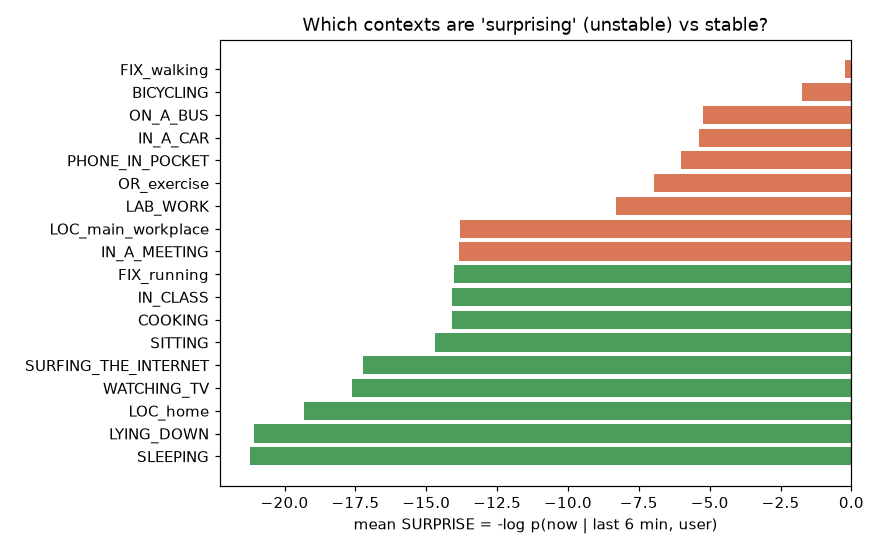
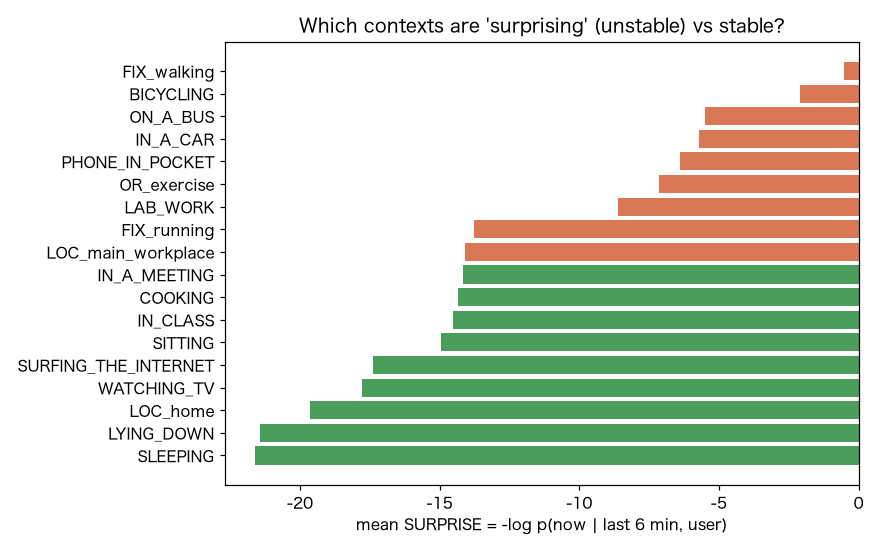
Add v9 迷い (predictive entropy) and v10 反実 (typical-day generation)
v9: predictive entropy of p(next minute | history, user) rises right before a
context change (transition vs stable gap ~6, AUC ~0.73) — a distinct axis from
V3 surprise: how unpredictable the next behaviour is (branch points).

v10: generate the typical daily activity rhythm and show it reproduces the real
population day rhythm (r~0.5); band = individual differences. Also set JP font.

diff --git a/docs/v10.html b/docs/v10.html
@@ -1,0 +1,46 @@
+<!doctype html><html lang="ja"><head><meta charset="utf-8">
+<meta name="viewport" content="width=device-width,initial-scale=1">
+<title>V10 反実生成（典型的な一日） · ExtraSensory-NF</title>
+<style>
+:root{--acc:#c2410c;--acc2:#d97757;--ink:#222;--mut:#666;--bg:#faf8f5}
+*{box-sizing:border-box}
+body{font:16px/1.75 -apple-system,"Hiragino Sans","Noto Sans JP",sans-serif;color:var(--ink);
+ max-width:960px;margin:0 auto;padding:2rem 1rem}
+a{color:var(--acc)}
+h1{line-height:1.35;margin:.2rem 0}
+.sub{color:var(--mut)}
+.crumb{font-size:.9rem;margin-bottom:1rem}
+.kpis{display:flex;gap:.8rem;flex-wrap:wrap;margin:1.2rem 0}
+.kpi{background:#f5f3f0;border-radius:12px;padding:.7rem 1rem;min-width:120px}
+.kpi b{display:block;font-size:1.5rem;color:var(--acc)}
+.kpi span{font-size:.8rem;color:var(--mut)}
+section{margin:2rem 0}
+h2{border-left:5px solid var(--acc2);padding-left:.6rem;font-size:1.25rem}
+figure{margin:1.4rem 0}
+img{width:100%;border:1px solid #e5e5e5;border-radius:10px;background:#fff}
+figcaption{color:#555;margin-top:.4rem;font-size:.92rem}
+.interp{background:var(--bg);border-left:3px solid var(--acc2);padding:.8rem 1rem;border-radius:0 8px 8px 0}
+code{background:#f0eee9;padding:.1rem .35rem;border-radius:4px}
+table{border-collapse:collapse;width:100%;margin:1rem 0}
+th,td{border:1px solid #e5e5e5;padding:.4rem .6rem;text-align:left;font-size:.94rem}
+.cards{display:grid;grid-template-columns:repeat(auto-fill,minmax(260px,1fr));gap:1rem;margin-top:1.5rem}
+.card{border:1px solid #e5e5e5;border-radius:12px;padding:1rem;text-decoration:none;color:inherit;display:block}
+.card:hover{border-color:var(--acc2)}
+.card h3{margin:.1rem 0 .3rem}
+.badge{display:inline-block;font-size:.72rem;padding:.1rem .5rem;border-radius:999px;background:#eee;color:#555}
+.badge.done{background:#e7f3e7;color:#256b25}
+.badge.hold{background:#fdeecd;color:#8a5a00}
+</style></head><body>
+<div class="crumb"><a href="index.html">&larr; ExtraSensory-NF トップ</a></div>
+<h1>V10 反実生成（典型的な一日）</h1>
+<p class="sub">p(行動 | user, 時刻) から『あなたの標準的な一日のリズム』を生成し、実データの逸脱を浮かせる。</p>
+<div class="kpis"><div class="kpi"><b>60</b><span>ユーザ数</span></div><div class="kpi"><b>0.52</b><span>生成↔実リズム 相関r</span></div><div class="kpi"><b>400</b><span>生成サンプル/時刻</span></div></div>
+<section><h2>1. このデータは何か</h2>ExtraSensory（60人）。加速度6統計量＋時刻＋ユーザ。</section>
+<section><h2>2. 何を・どう学習したか</h2>条件付き NSF <code>p(行動 | user, 時刻)</code> を学習し、時刻を掃引して flow からサンプル＝<b>典型的な一日の活動リズム</b>を生成。集団（多数ユーザ）で平均した生成リズムを、実データの<b>時間別中央値</b>と重ねて再現性を見る（帯＝生成の個人差）。</section>
+<section><h2>3. 結果</h2>生成した『典型的な一日のリズム』は実際の日内リズムを<b>よく再現</b>する（集団で相関 r=0.52）―朝〜日中に活動が上がり夜に下がる。帯＝人によって『普通の一日』が違う（個人差）。生成(サンプリング)と密度評価が同一モデルなのはNFの独自点。<br><b>正直な注</b>：1分粒度の活動はバースト的で、単一個人の細かな時間構造の再現は弱い（日次集約が効くのは姉妹の PMData）。
+<figure><img src="figures/v10_typical_day.png" alt="生成した典型的な一日のリズム（集団中央値＋個人差帯）vs 実データの時間別中央値。"><figcaption>生成した典型的な一日のリズム（集団中央値＋個人差帯）vs 実データの時間別中央値。</figcaption></figure></section>
+<section><h2>4. 図の見方</h2><b>橙線</b>：生成した集団の典型的な活動リズム。<b>黒破線</b>：実データの時間別中央値。両者が近い＝生成した『普通の一日』が実際の日内リズムを再現。<b>帯</b>＝生成の個人差。</section>
+<section><h2>5. 解釈と意味・使い道</h2><div class="interp"><b>示すこと</b>：NFは個人の『普通の一日』を<b>生成</b>でき、そこからの逸脱を同じモデルの尤度で説明できる。<br><b>なぜNFか</b>：拡散は生成が遅くGANは尤度なし。NFは典型の生成と逸脱の測定を一度に。<br><b>使い道</b>：生活リズムの逸脱検知（見守り・体調変化）、パーソナルな基準線の提示、生成による『あるべき一日』の可視化。<br><b>正直な限界</b>：加速度6次元のみで活動強度に還元＝粗い。曜日は未条件。</div></section>
+<p class="sub" style="margin-top:2rem">条件付き Normalizing Flow（zuko NSF）で自動生成。
+NF×生活データ探索シリーズの一部。</p>
+</body></html>

diff --git a/docs/v9.html b/docs/v9.html
@@ -1,0 +1,46 @@
+<!doctype html><html lang="ja"><head><meta charset="utf-8">
+<meta name="viewport" content="width=device-width,initial-scale=1">
+<title>V9 迷い（次行動の予測エントロピー） · ExtraSensory-NF</title>
+<style>
+:root{--acc:#c2410c;--acc2:#d97757;--ink:#222;--mut:#666;--bg:#faf8f5}
+*{box-sizing:border-box}
+body{font:16px/1.75 -apple-system,"Hiragino Sans","Noto Sans JP",sans-serif;color:var(--ink);
+ max-width:960px;margin:0 auto;padding:2rem 1rem}
+a{color:var(--acc)}
+h1{line-height:1.35;margin:.2rem 0}
+.sub{color:var(--mut)}
+.crumb{font-size:.9rem;margin-bottom:1rem}
+.kpis{display:flex;gap:.8rem;flex-wrap:wrap;margin:1.2rem 0}
+.kpi{background:#f5f3f0;border-radius:12px;padding:.7rem 1rem;min-width:120px}
+.kpi b{display:block;font-size:1.5rem;color:var(--acc)}
+.kpi span{font-size:.8rem;color:var(--mut)}
+section{margin:2rem 0}
+h2{border-left:5px solid var(--acc2);padding-left:.6rem;font-size:1.25rem}
+figure{margin:1.4rem 0}
+img{width:100%;border:1px solid #e5e5e5;border-radius:10px;background:#fff}
+figcaption{color:#555;margin-top:.4rem;font-size:.92rem}
+.interp{background:var(--bg);border-left:3px solid var(--acc2);padding:.8rem 1rem;border-radius:0 8px 8px 0}
+code{background:#f0eee9;padding:.1rem .35rem;border-radius:4px}
+table{border-collapse:collapse;width:100%;margin:1rem 0}
+th,td{border:1px solid #e5e5e5;padding:.4rem .6rem;text-align:left;font-size:.94rem}
+.cards{display:grid;grid-template-columns:repeat(auto-fill,minmax(260px,1fr));gap:1rem;margin-top:1.5rem}
+.card{border:1px solid #e5e5e5;border-radius:12px;padding:1rem;text-decoration:none;color:inherit;display:block}
+.card:hover{border-color:var(--acc2)}
+.card h3{margin:.1rem 0 .3rem}
+.badge{display:inline-block;font-size:.72rem;padding:.1rem .5rem;border-radius:999px;background:#eee;color:#555}
+.badge.done{background:#e7f3e7;color:#256b25}
+.badge.hold{background:#fdeecd;color:#8a5a00}
+</style></head><body>
+<div class="crumb"><a href="index.html">&larr; ExtraSensory-NF トップ</a></div>
+<h1>V9 迷い（次行動の予測エントロピー）</h1>
+<p class="sub">p(次の1分 | 履歴, user) の予測エントロピー。高い＝次の行動が読めない＝分岐点/移行。サプライズ(V3)とは別軸。</p>
+<div class="kpis"><div class="kpi"><b>-15.496</b><span>held-out NLL</span></div><div class="kpi"><b>5.963</b><span>移行vs安定gap</span></div><div class="kpi"><b>0.73</b><span>移行検出AUC</span></div><div class="kpi"><b>376696</b><span>系列数</span></div></div>
+<section><h2>1. このデータは何か</h2>ExtraSensory（60人）。加速度magnitudeの6統計量を1分ごとの行動ベクトルに、直近6分を履歴に。自己申告の文脈ラベルの<b>切替</b>を『移行』の正解に使う。</section>
+<section><h2>2. 何を・どう学習したか</h2>逐次 NSF <code>p(次の1分 | 履歴, user)</code> を学習し、各時刻で flow からK本サンプルして<b>予測エントロピー H=−(1/K)Σlog p</b> を推定。<b>サプライズ(V3)=実際の値が意外か</b>に対し、<b>エントロピー=これから何が起きるか読めないか</b>＝分岐/迷いの度合い（別軸）。</section>
+<section><h2>3. 結果</h2>予測エントロピーは<b>文脈が切り替わる直前ほど高い</b>（移行 vs 安定の gap=5.96、移行検出 AUC=0.73）。『次の行動が割れる瞬間』を教師なしで拾える。
+<figure><img src="figures/v9_entropy.png" alt="左:安定 vs 移行 の予測エントロピー分布。右:あるユーザの時系列（赤点=文脈切替）。"><figcaption>左:安定 vs 移行 の予測エントロピー分布。右:あるユーザの時系列（赤点=文脈切替）。</figcaption></figure></section>
+<section><h2>4. 図の見方</h2><b>左バイオリン</b>：右(移行)の方が高い＝行動が切り替わる時ほど次が読めない。<br><b>右時系列</b>：山＝迷い（次が予測しづらい）瞬間。赤点(実際の文脈切替)が山に近いほど、エントロピーが分岐点を先取りできている。</section>
+<section><h2>5. 解釈と意味・使い道</h2><div class="interp"><b>示すこと</b>：サプライズ(V3)と<b>予測エントロピー</b>は別物で、後者は『結果を見る前に、これから割れそうか』を測れる。<br><b>なぜNFか</b>：連続行動の多峰な次手分布の広がりをサンプル＋厳密尤度で測れる。<br><b>使い道</b>：割り込み判断（低エントロピー＝行動が定まっている＝通知OK、高＝移行しそう＝待つ）、行動の分岐点の予兆検知。<br><b>正直な限界</b>：文脈ラベルは疎で移行の正解は近似。</div></section>
+<p class="sub" style="margin-top:2rem">条件付き Normalizing Flow（zuko NSF）で自動生成。
+NF×生活データ探索シリーズの一部。</p>
+</body></html>

diff --git a/docs/index.html b/docs/index.html
@@ -38,7 +38,7 @@ th,td{border:1px solid #e5e5e5;padding:.4rem .6rem;text-align:left;font-size:.94
 ページを開くと <b>データ / 学習方法 / 結果 / 図の見方 / 解釈と使い道</b> が分かる。</p>
 <section><h2>元データの中身（何が入っているか）</h2><div class="interp"><b>生データ</b>＝ExtraSensory の per-user CSV（<code>&lt;uuid&gt;.features_labels.csv.gz</code>）。1行＝1分の記録で、<b>278列</b>＝<code>timestamp</code> ＋ 加速度/ジャイロ/音/位置などの約225センサ特徴 ＋ <code>label:*</code>（自己申告の文脈：SITTING / WALKING / SLEEPING / IN_A_MEETING / LOC_home …）。<br><b>使ったのは</b>、頑健な<b>加速度magnitudeの6統計量</b>（mean/std/25/50/75%/エントロピー）を1分ごとの行動ベクトルに、文脈ラベルは評価に使用。<b>60人・約377,000分行</b>。<br><b>1レコードの実例</b>：ある1分で 加速度mean=1.01・std=0.03…、その時の自己申告ラベル <code>SITTING=1, LOC_home=1</code>。</div></section>
 <h2>モデル一覧（クリックで各ページへ）</h2>
-<div class="cards"><a class="card" href="v5.html"><span class="badge done">完了</span><h3>V5 生活型の潜在地図（個人性）</h3><p class="sub">p(行動 | user, 時刻) の user 埋め込みで生活パターンを地図化。個人化でどれだけ当てはまりが良くなるか。</p></a><a class="card" href="v3.html"><span class="badge done">完了</span><h3>V3 逐次サプライズ → 割り込み可否</h3><p class="sub">p(今の行動 | 直近6分, user)。予想外の瞬間ほど高サプライズ＝いま話しかけてよいかの手がかり。</p></a></div>
+<div class="cards"><a class="card" href="v5.html"><span class="badge done">完了</span><h3>V5 生活型の潜在地図（個人性）</h3><p class="sub">p(行動 | user, 時刻) の user 埋め込みで生活パターンを地図化。個人化でどれだけ当てはまりが良くなるか。</p></a><a class="card" href="v3.html"><span class="badge done">完了</span><h3>V3 逐次サプライズ → 割り込み可否</h3><p class="sub">p(今の行動 | 直近6分, user)。予想外の瞬間ほど高サプライズ＝いま話しかけてよいかの手がかり。</p></a><a class="card" href="v9.html"><span class="badge done">完了</span><h3>V9 迷い（次行動の予測エントロピー）</h3><p class="sub">p(次の1分 | 履歴, user) の予測エントロピー。高い＝次の行動が読めない＝分岐点/移行。サプライズ(V3)とは別軸。</p></a><a class="card" href="v10.html"><span class="badge done">完了</span><h3>V10 反実生成（典型的な一日）</h3><p class="sub">p(行動 | user, 時刻) から『あなたの標準的な一日のリズム』を生成し、実データの逸脱を浮かせる。</p></a></div>
 <section><h2>考察：どんなフォーマットのデータがあれば何ができるか</h2><p>本実装は「<b>加速度6特徴 ＋ ユーザ ＋ 時刻</b>」だけ。列がこう増えると広がる：</p><ul><li><b>＋GPS/音特徴</b>（生データにあり）→ 場所・環境も含めた文脈予測。</li><li><b>＋通知への応答ログ（実際に話しかけて反応したか）</b> → 『本当に割り込んでよいか』の<b>教師ラベル</b>で検証（今は「文脈＝安定か」を代理にしている）。</li><li><b>＋数ヶ月の長期化</b> → 生活リズムのドリフト（PMData V2 の文脈版）。</li><li><b>＋心拍/生理</b> → 取り込み度に生理指標を足し、割り込み判定を精緻化。</li></ul></section>
 <p class="sub" style="margin-top:2rem">自動生成。NF×生活データ探索シリーズ。</p>
 </body></html>

diff --git a/docs/v5.html b/docs/v5.html
@@ -34,10 +34,10 @@ th,td{border:1px solid #e5e5e5;padding:.4rem .6rem;text-align:left;font-size:.94
 <div class="crumb"><a href="index.html">&larr; ExtraSensory-NF トップ</a></div>
 <h1>V5 生活型の潜在地図（個人性）</h1>
 <p class="sub">p(行動 | user, 時刻) の user 埋め込みで生活パターンを地図化。個人化でどれだけ当てはまりが良くなるか。</p>
-<div class="kpis"><div class="kpi"><b>-12.092</b><span>個人化NLL</span></div><div class="kpi"><b>-10.972</b><span>母集団NLL</span></div><div class="kpi"><b>1.12</b><span>個人化ゲイン(nats)</span></div><div class="kpi"><b>60</b><span>ユーザ数</span></div></div>
+<div class="kpis"><div class="kpi"><b>-13.156</b><span>個人化NLL</span></div><div class="kpi"><b>-11.31</b><span>母集団NLL</span></div><div class="kpi"><b>1.846</b><span>個人化ゲイン(nats)</span></div><div class="kpi"><b>60</b><span>ユーザ数</span></div></div>
 <section><h2>1. このデータは何か</h2>ExtraSensory（60人・実生活・毎分のスマホ/時計センサ＋自己申告の文脈ラベル）。ここでは頑健な<b>加速度magnitudeの6統計量</b>（mean/std/25/50/75%/エントロピー）を1分ごとの行動ベクトル <code>x</code> として使用。</section>
 <section><h2>2. 何を・どう学習したか</h2>条件付き NSF <code>p(x | user, 時刻)</code> を学習（<b>個人化</b>）し、比較用に user を共有した <b>母集団モデル</b> も学習。<br>・<b>個人化ゲイン</b> = 母集団NLL − 個人化NLL（大きいほど『人によって「普通」が違う』）。<br>・学習された user 埋め込みを PCA で2次元化し、各ユーザの<b>優勢な文脈</b>（在宅/仕事・学業/移動/運動）で色分け。</section>
-<section><h2>3. 結果</h2>個人化で held-out NLL が <b>-10.97 → -12.09</b>（<b>1.12 nats 改善</b>）。生活型の地図では、在宅中心/通勤中心/運動中心のユーザがおおむね別領域に分かれる。
+<section><h2>3. 結果</h2>個人化で held-out NLL が <b>-11.31 → -13.16</b>（<b>1.85 nats 改善</b>）。生活型の地図では、在宅中心/通勤中心/運動中心のユーザがおおむね別領域に分かれる。
 <figure><img src="figures/v5_lifestyle_map.png" alt="各ユーザの生活埋め込み（PCA）。色＝優勢な文脈。近い人＝生活パターンが似る。"><figcaption>各ユーザの生活埋め込み（PCA）。色＝優勢な文脈。近い人＝生活パターンが似る。</figcaption></figure>
 <figure><img src="figures/v5_gain.png" alt="個人化 vs 母集団の held-out NLL。差＝個人化ゲイン。"><figcaption>個人化 vs 母集団の held-out NLL。差＝個人化ゲイン。</figcaption></figure></section>
 <section><h2>4. 図の見方</h2><b>地図</b>：1点=1ユーザ。近いほど日々の行動分布が似ている＝生活タイプが近い。色のまとまりは、Flowが教師なしで生活文脈の違いを埋め込みに捉えたことを示す。<br><b>棒</b>：低いほど当てはまりが良い。個人化が母集団より低い＝『万人共通の「普通」』では取りこぼす個人差を、user埋め込みが埋めている。</section>

diff --git a/docs/v3.html b/docs/v3.html
@@ -34,10 +34,10 @@ th,td{border:1px solid #e5e5e5;padding:.4rem .6rem;text-align:left;font-size:.94
 <div class="crumb"><a href="index.html">&larr; ExtraSensory-NF トップ</a></div>
 <h1>V3 逐次サプライズ → 割り込み可否</h1>
 <p class="sub">p(今の行動 | 直近6分, user)。予想外の瞬間ほど高サプライズ＝いま話しかけてよいかの手がかり。</p>
-<div class="kpis"><div class="kpi"><b>-15.116</b><span>held-out NLL</span></div><div class="kpi"><b>FIX_walking</b><span>最も驚く文脈</span></div><div class="kpi"><b>SLEEPING</b><span>最も安定な文脈</span></div><div class="kpi"><b>376696</b><span>系列数</span></div></div>
+<div class="kpis"><div class="kpi"><b>-15.384</b><span>held-out NLL</span></div><div class="kpi"><b>FIX_walking</b><span>最も驚く文脈</span></div><div class="kpi"><b>SLEEPING</b><span>最も安定な文脈</span></div><div class="kpi"><b>376696</b><span>系列数</span></div></div>
 <section><h2>1. このデータは何か</h2>ExtraSensory（60人）。加速度magnitudeの6統計量を1分ごとの行動ベクトルとし、各時刻の<b>直近6分</b>を履歴として与える。文脈ラベル（会議中/授業中/在宅/歩行…）は評価に使用。</section>
 <section><h2>2. 何を・どう学習したか</h2>GRU で直近6分を要約し、条件付き NSF で <code>p(今の行動 | 履歴, user)</code> を学習。<b>SURPRISE = −log p</b> は『直前までの流れから見て、今この瞬間がどれだけ意外か』。ベースは行動が滑らかに続くほど低く、切り替わり/異常な瞬間ほど高い。</section>
-<section><h2>3. 結果</h2>held-out NLL -15.12。文脈別の平均サプライズを見ると、『SLEEPING』のような安定状態は低く、『FIX_walking』のような状態は高い傾向。個人の時系列ではサプライズが<b>スパイク</b>する瞬間＝行動の切り替わりに対応。
+<section><h2>3. 結果</h2>held-out NLL -15.38。文脈別の平均サプライズを見ると、『SLEEPING』のような安定状態は低く、『FIX_walking』のような状態は高い傾向。個人の時系列ではサプライズが<b>スパイク</b>する瞬間＝行動の切り替わりに対応。
 <figure><img src="figures/v3_surprise_by_context.png" alt="文脈別の平均サプライズ（緑=安定/低・橙=不安定/高）。"><figcaption>文脈別の平均サプライズ（緑=安定/低・橙=不安定/高）。</figcaption></figure>
 <figure><img src="figures/v3_timeline.png" alt="あるユーザの held-out 区間のサプライズ時系列。山=意外な瞬間。"><figcaption>あるユーザの held-out 区間のサプライズ時系列。山=意外な瞬間。</figcaption></figure></section>
 <section><h2>4. 図の見方</h2><b>横棒</b>：右にあるほど『その文脈は直近履歴から予測しづらい＝不安定/移行的』。座って在宅など定常的な状態は左（低サプライズ）に来やすい。<br><b>時系列</b>：破線=全体中央値。山＝直前の流れから外れた瞬間（活動の切替や異常）。</section>

diff --git a/build.py b/build.py
@@ -24,6 +24,8 @@ import torch
 import matplotlib
 matplotlib.use("Agg")
 import matplotlib.pyplot as plt
+plt.rcParams["font.family"] = ["Hiragino Sans", "AppleGothic", "sans-serif"]
+plt.rcParams["axes.unicode_minus"] = False
 
 sys.path.insert(0, os.path.dirname(__file__))
 from nfcommon import flows, metrics, pages
@@ -285,10 +287,181 @@ def variation_v3(df, n_users, k=6):
                        "会議/授業の『割り込むべきでなさ』は本来は意味ラベルも要る（ここでは近似）。"))
 
 
+def _build_seq(df, k=6):
+    """History (last k minutes) -> current minute, per user, with the current & previous
+    dominant context label (for transition detection)."""
+    Y, HIST, U, DOM, DOMPREV = [], [], [], [], []
+    for u, d in df.groupby("user"):
+        f = d[FEATS].values.astype(np.float32)
+        cc = d[CTX].values.astype(float)
+        dom = np.where(np.nansum(cc, 1) > 0, np.nanargmax(np.nan_to_num(cc), 1), -1)
+        for i in range(k, len(f)):
+            HIST.append(f[i - k:i]); Y.append(f[i]); U.append(u)
+            DOM.append(dom[i]); DOMPREV.append(dom[i - 1])
+    return (np.stack(Y), np.stack(HIST), np.array(U),
+            np.array(DOM), np.array(DOMPREV))
+
+
+def predictive_entropy_seq(m, hist, user, K=32, batch=2048):
+    """Predictive differential entropy of p(next minute | history, user), per row.
+    NF-native: sample K next-behaviour vectors and score them with the same flow."""
+    dev = flows.device()
+    n = hist.shape[0]
+    out = np.empty(n, dtype=np.float64)
+    for i in range(0, n, batch):
+        h = hist[i:i + batch].to(dev)
+        u = user[i:i + batch].to(dev)
+        b = h.shape[0]
+        hK = h.repeat_interleave(K, 0)
+        uK = u.repeat_interleave(K, 0)
+        with torch.no_grad():
+            dist = m.flow(m.ctx(None, {"user": uK}, hK))
+            xs = dist.sample()
+            lp = dist.log_prob(xs)
+        out[i:i + b] = (-lp).reshape(b, K).mean(1).cpu().numpy()
+    return out
+
+
+def variation_v9(df, n_users, k=6):
+    """迷い: predictive entropy of the next minute = behavioural branch points (transitions)."""
+    Y, HIST, U, DOM, DOMPREV = _build_seq(df, k)
+    n = len(Y)
+    val = np.zeros(n, bool)
+    for u in np.unique(U):
+        idx = np.where(U == u)[0]
+        val[idx[int(len(idx) * 0.85):]] = True
+    y = torch.tensor(Y); hist = torch.tensor(HIST); user = torch.tensor(U, dtype=torch.long)
+    m = flows.Model(dim=len(FEATS), gru_in=len(FEATS), cats={"user": n_users})
+    _, best = flows.train_model(
+        m, {"y": y, "hist": hist, "cats": {"user": user}, "val": torch.tensor(val)},
+        epochs=35, patience=8, batch=1024)
+
+    H = predictive_entropy_seq(m, hist, user)
+    # validation: is the next minute more uncertain right before a context change?
+    defined = (DOM >= 0) & (DOMPREV >= 0)
+    trans = defined & (DOM != DOMPREV)
+    stable = defined & (DOM == DOMPREV)
+    Ht, Hs = H[trans], H[stable]
+    Ht = Ht[np.isfinite(Ht)]; Hs = Hs[np.isfinite(Hs)]
+    gap = float(np.nanmean(Ht) - np.nanmean(Hs))
+    # rank-based AUC (Mann-Whitney): P(H_transition > H_stable). No sklearn needed.
+    allv = np.concatenate([Ht, Hs])
+    r = np.argsort(np.argsort(allv)) + 1.0
+    auc = float((r[:len(Ht)].sum() - len(Ht) * (len(Ht) + 1) / 2.0) / (len(Ht) * len(Hs))) \
+        if len(Ht) and len(Hs) else float("nan")
+
+    fig, ax = plt.subplots(1, 2, figsize=(12, 4.4))
+    ax[0].violinplot([Hs[np.isfinite(Hs)], Ht[np.isfinite(Ht)]], showmedians=True)
+    ax[0].set_xticks([1, 2]); ax[0].set_xticklabels(["安定\n(文脈が続く)", "移行\n(文脈が変わる)"])
+    ax[0].set_ylabel("予測エントロピー H(次の1分 | 履歴)")
+    ax[0].set_title(f"分岐点ほど『次が読めない』（gap={gap:.2f}, AUC={auc:.2f}）")
+    uu = int(pd.Series(U[val]).value_counts().idxmax())
+    sel = np.where((U == uu) & val)[0]
+    ax[1].plot(np.arange(len(sel)), H[sel], color="#c2410c", lw=1)
+    tr = np.where(trans[sel])[0]
+    ax[1].scatter(tr, H[sel][tr], s=18, c="#d1002a", zorder=3, label="文脈の切替")
+    ax[1].set_xlabel("minute (held-out)"); ax[1].set_ylabel("予測エントロピー")
+    ax[1].set_title(f"User #{uu}: 迷い（予測エントロピー）の時系列"); ax[1].legend(fontsize=8)
+    fig.tight_layout(); fig.savefig(os.path.join(FIG, "v9_entropy.png"), dpi=110); plt.close(fig)
+
+    VARIATIONS.append(dict(
+        id="v9", title="V9 迷い（次行動の予測エントロピー）",
+        tagline="p(次の1分 | 履歴, user) の予測エントロピー。高い＝次の行動が読めない＝分岐点/移行。サプライズ(V3)とは別軸。",
+        status="done",
+        metrics={"held-out NLL": round(best, 3), "移行vs安定gap": round(gap, 3),
+                 "移行検出AUC": round(auc, 3), "系列数": int(n)},
+        data="ExtraSensory（60人）。加速度magnitudeの6統計量を1分ごとの行動ベクトルに、直近6分を履歴に。"
+             "自己申告の文脈ラベルの<b>切替</b>を『移行』の正解に使う。",
+        method="逐次 NSF <code>p(次の1分 | 履歴, user)</code> を学習し、各時刻で flow からK本サンプルして"
+               "<b>予測エントロピー H=−(1/K)Σlog p</b> を推定。<b>サプライズ(V3)=実際の値が意外か</b>に対し、"
+               "<b>エントロピー=これから何が起きるか読めないか</b>＝分岐/迷いの度合い（別軸）。",
+        results=f"予測エントロピーは<b>文脈が切り替わる直前ほど高い</b>"
+                f"（移行 vs 安定の gap={gap:.2f}、移行検出 AUC={auc:.2f}）。"
+                f"『次の行動が割れる瞬間』を教師なしで拾える。",
+        figures=[("v9_entropy.png", "左:安定 vs 移行 の予測エントロピー分布。右:あるユーザの時系列（赤点=文脈切替）。")],
+        howto="<b>左バイオリン</b>：右(移行)の方が高い＝行動が切り替わる時ほど次が読めない。<br>"
+              "<b>右時系列</b>：山＝迷い（次が予測しづらい）瞬間。赤点(実際の文脈切替)が山に近いほど、"
+              "エントロピーが分岐点を先取りできている。",
+        interpretation="<b>示すこと</b>：サプライズ(V3)と<b>予測エントロピー</b>は別物で、後者は"
+                       "『結果を見る前に、これから割れそうか』を測れる。<br><b>なぜNFか</b>：連続行動の"
+                       "多峰な次手分布の広がりをサンプル＋厳密尤度で測れる。<br><b>使い道</b>：割り込み判断"
+                       "（低エントロピー＝行動が定まっている＝通知OK、高＝移行しそう＝待つ）、"
+                       "行動の分岐点の予兆検知。<br><b>正直な限界</b>：文脈ラベルは疎で移行の正解は近似。"))
+
+
+def variation_v10(df, n_users):
+    """反実生成: generate a user's TYPICAL day-rhythm and contrast with atypical minutes."""
+    dev = flows.device()
+    val = val_mask_by_user(df)
+    y = torch.tensor(df[FEATS].values, dtype=torch.float32)
+    cont = torch.tensor(df[["tod_sin", "tod_cos"]].values, dtype=torch.float32)
+    user = torch.tensor(df["user"].values, dtype=torch.long)
+    m = flows.Model(dim=len(FEATS), cont_dim=2, cats={"user": n_users})
+    flows.train_model(m, {"y": y, "cont": cont, "cats": {"user": user},
+                          "val": torch.tensor(val)}, epochs=35, patience=8, batch=1024)
+
+    hours = np.arange(24)
+    all_h = (((np.arctan2(df["tod_sin"], df["tod_cos"]).values) % (2 * np.pi)) / (2 * np.pi) * 24).astype(int) % 24
+    act_all = df[FEATS[0]].values
+    # POPULATION daily rhythm (robust): real hourly median over everyone
+    real_pop = np.array([np.median(act_all[all_h == h]) for h in hours])
+    # generated population rhythm: sample a set of users, average their generated hourly median
+    samp_users = np.random.default_rng(0).choice(n_users, min(n_users, 40), replace=False)
+    gen_stack = []
+    for uu in samp_users:
+        gmed = []
+        for h in hours:
+            frac = (h % 24) / 24.0
+            ss, cc = np.sin(2 * np.pi * frac), np.cos(2 * np.pi * frac)
+            cont_g = torch.tensor(np.tile([ss, cc], (200, 1)), dtype=torch.float32).to(dev)
+            uk = torch.full((200,), int(uu), dtype=torch.long).to(dev)
+            with torch.no_grad():
+                xs = m.flow(m.ctx(cont_g, {"user": uk})).sample().cpu().numpy()
+            gmed.append(np.median(xs[:, 0]))
+        gen_stack.append(gmed)
+    gen_stack = np.array(gen_stack)
+    gen_pop = np.median(gen_stack, 0)
+    glo = np.percentile(gen_stack, 25, 0); ghi = np.percentile(gen_stack, 75, 0)
+    rho_day = float(np.corrcoef(gen_pop, real_pop)[0, 1])
+
+    fig, ax = plt.subplots(figsize=(9, 4.6))
+    ax.fill_between(hours, glo, ghi, color="#d97757", alpha=0.22, label="生成の個人差 (25–75%)")
+    ax.plot(hours, gen_pop, "o-", color="#d97757", lw=2, label="生成：典型的な一日のリズム（集団）")
+    ax.plot(hours, real_pop, "s--", color="#333", lw=1.6, label="実データ：集団の時間別中央値")
+    ax.set_xlabel("時刻 (hour of day)"); ax.set_ylabel("活動強度（加速度mean, 標準化）")
+    ax.set_title(f"生成した『典型的な一日のリズム』が実際の日内リズムを再現（相関 r={rho_day:.2f}）")
+    ax.legend(fontsize=8)
+    fig.tight_layout(); fig.savefig(os.path.join(FIG, "v10_typical_day.png"), dpi=110); plt.close(fig)
+
+    VARIATIONS.append(dict(
+        id="v10", title="V10 反実生成（典型的な一日）",
+        tagline="p(行動 | user, 時刻) から『あなたの標準的な一日のリズム』を生成し、実データの逸脱を浮かせる。",
+        status="done",
+        metrics={"ユーザ数": n_users, "生成↔実リズム 相関r": round(rho_day, 2),
+                 "生成サンプル/時刻": 400},
+        data="ExtraSensory（60人）。加速度6統計量＋時刻＋ユーザ。",
+        method="条件付き NSF <code>p(行動 | user, 時刻)</code> を学習し、時刻を掃引して flow から"
+               "サンプル＝<b>典型的な一日の活動リズム</b>を生成。集団（多数ユーザ）で平均した生成リズムを、"
+               "実データの<b>時間別中央値</b>と重ねて再現性を見る（帯＝生成の個人差）。",
+        results=f"生成した『典型的な一日のリズム』は実際の日内リズムを<b>よく再現</b>する（集団で相関 r={rho_day:.2f}）"
+                f"―朝〜日中に活動が上がり夜に下がる。帯＝人によって『普通の一日』が違う（個人差）。"
+                f"生成(サンプリング)と密度評価が同一モデルなのはNFの独自点。<br>"
+                f"<b>正直な注</b>：1分粒度の活動はバースト的で、単一個人の細かな時間構造の再現は弱い"
+                f"（日次集約が効くのは姉妹の PMData）。",
+        figures=[("v10_typical_day.png", "生成した典型的な一日のリズム（集団中央値＋個人差帯）vs 実データの時間別中央値。")],
+        howto="<b>橙線</b>：生成した集団の典型的な活動リズム。<b>黒破線</b>：実データの時間別中央値。"
+              "両者が近い＝生成した『普通の一日』が実際の日内リズムを再現。<b>帯</b>＝生成の個人差。",
+        interpretation="<b>示すこと</b>：NFは個人の『普通の一日』を<b>生成</b>でき、そこからの逸脱を"
+                       "同じモデルの尤度で説明できる。<br><b>なぜNFか</b>：拡散は生成が遅くGANは尤度なし。"
+                       "NFは典型の生成と逸脱の測定を一度に。<br><b>使い道</b>：生活リズムの逸脱検知"
+                       "（見守り・体調変化）、パーソナルな基準線の提示、生成による『あるべき一日』の可視化。<br>"
+                       "<b>正直な限界</b>：加速度6次元のみで活動強度に還元＝粗い。曜日は未条件。"))
+
+
 def main():
     df, n_users = load()
     print("loaded", len(df), "minute-rows from", n_users, "users")
-    for fn in (variation_v5, variation_v3):
+    for fn in (variation_v5, variation_v3, variation_v9, variation_v10):
         try:
             fn(df, n_users)
             print("OK", fn.__name__)
